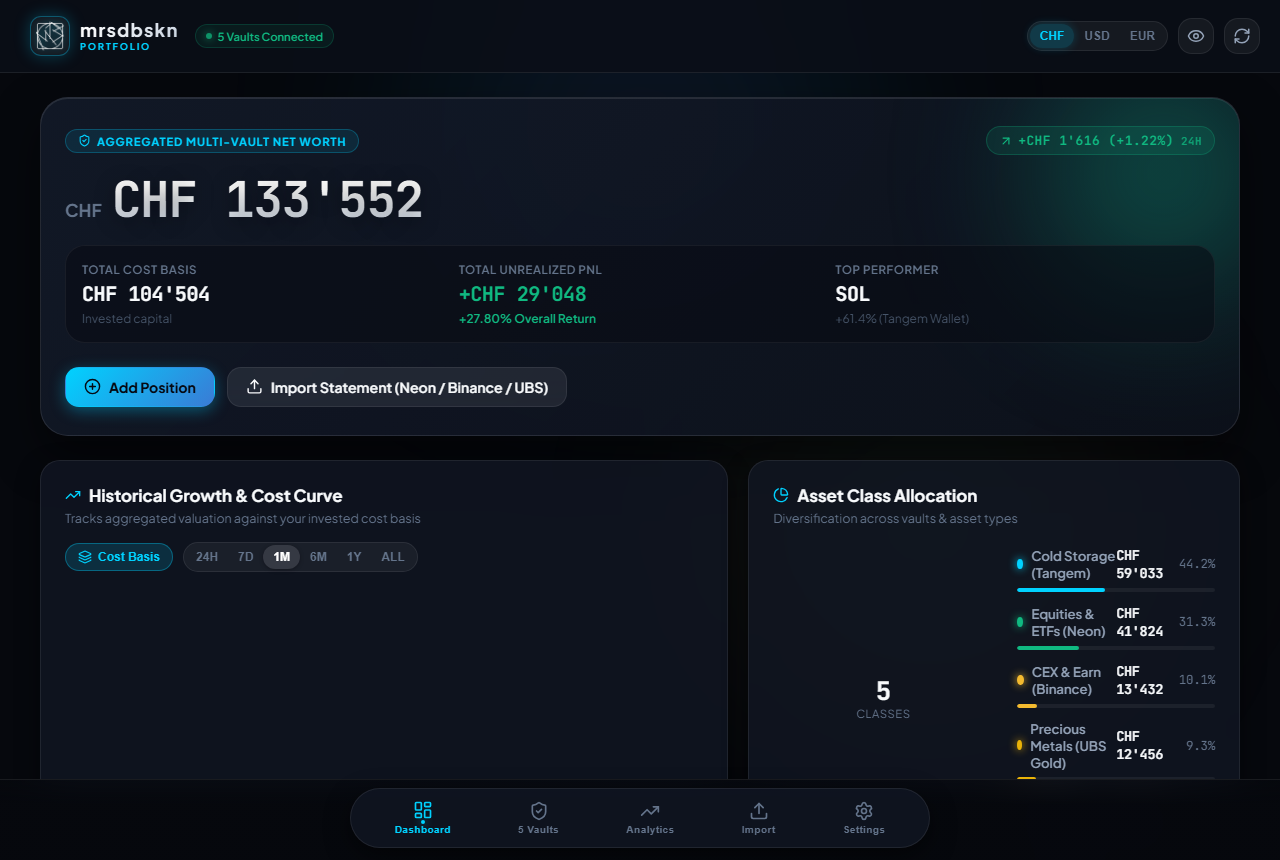
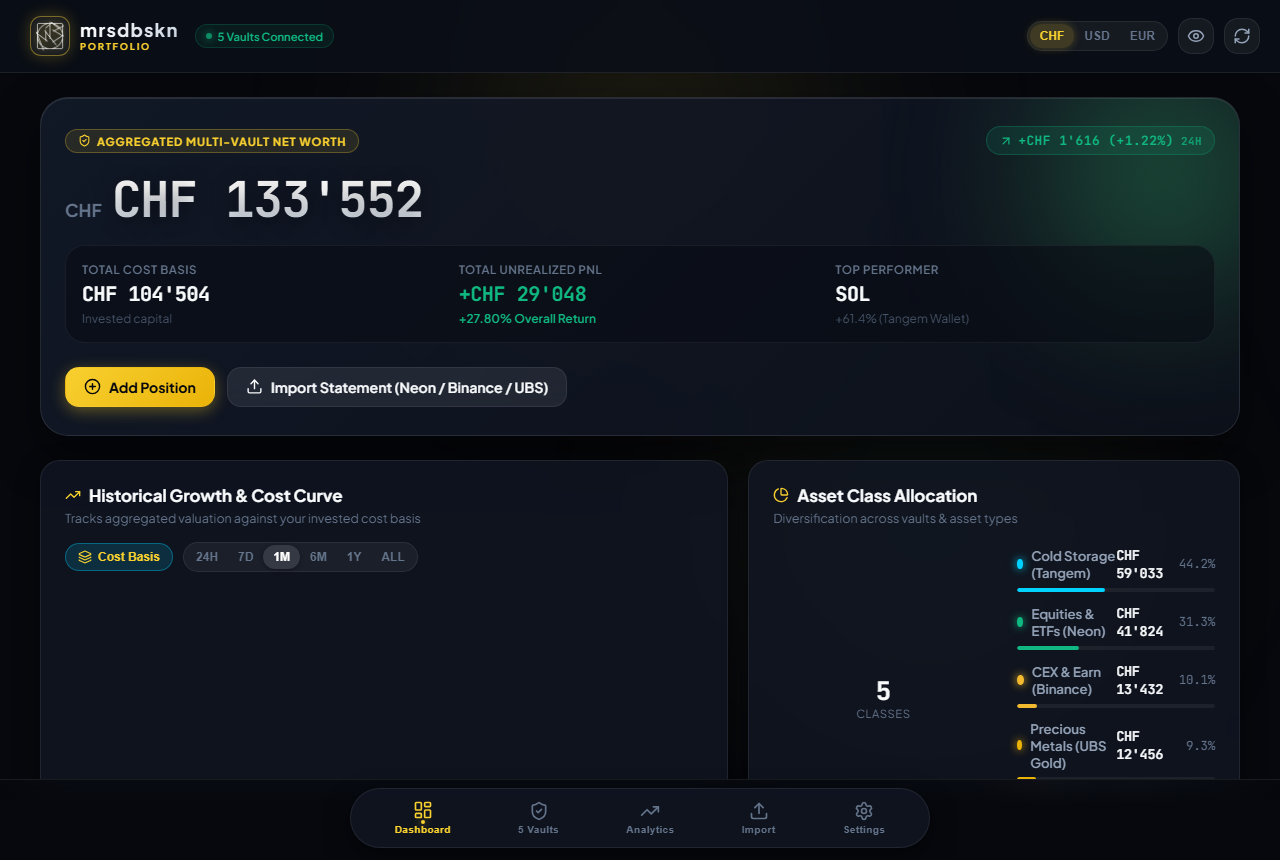
style: set primary theme accent color to vibrant gold #F8D030

diff --git a/src/style.css b/src/style.css
@@ -12,7 +12,7 @@
 
   --border-subtle: rgba(255, 255, 255, 0.08);
   --border-strong: rgba(255, 255, 255, 0.16);
-  --border-glow: rgba(0, 210, 255, 0.3);
+  --border-glow: rgba(248, 208, 48, 0.35);
 
   --text-primary: #f8fafc;
   --text-secondary: #94a3b8;
@@ -20,12 +20,12 @@
   --text-dim: #475569;
 
   /* Accents */
-  --accent-cyan: #00d2ff;
+  --accent-cyan: #F8D030;
+  --accent-gold: #F8D030;
   --accent-blue: #3b82f6;
   --accent-indigo: #6366f1;
   --accent-purple: #a855f7;
-  --accent-gold: #f59e0b;
-  --accent-yellow: #facc15;
+  --accent-yellow: #F8D030;
   --accent-emerald: #10b981;
   --accent-rose: #f43f5e;
 
@@ -41,8 +41,8 @@
   --shadow-sm: 0 2px 8px rgba(0, 0, 0, 0.3);
   --shadow-md: 0 8px 24px rgba(0, 0, 0, 0.45);
   --shadow-lg: 0 16px 40px rgba(0, 0, 0, 0.6);
-  --shadow-glow-cyan: 0 0 30px rgba(0, 210, 255, 0.15);
-  --shadow-glow-gold: 0 0 30px rgba(245, 158, 11, 0.15);
+  --shadow-glow-cyan: 0 0 30px rgba(248, 208, 48, 0.2);
+  --shadow-glow-gold: 0 0 30px rgba(248, 208, 48, 0.2);
   --shadow-glow-profit: 0 0 25px rgba(16, 185, 129, 0.2);
 
   /* Sizing & Transitions */
@@ -83,7 +83,7 @@ body::before {
   left: 20%;
   width: 60vw;
   height: 40vw;
-  background: radial-gradient(circle, rgba(99, 102, 241, 0.12) 0%, rgba(0, 210, 255, 0.06) 40%, transparent 70%);
+  background: radial-gradient(circle, rgba(248, 208, 48, 0.12) 0%, rgba(248, 208, 48, 0.04) 40%, transparent 70%);
   filter: blur(80px);
   pointer-events: none;
   z-index: 0;
@@ -199,14 +199,14 @@ body::after {
 }
 
 .btn-primary {
-  background: linear-gradient(135deg, #00d2ff 0%, #3a7bd5 100%);
-  color: #060912;
-  box-shadow: 0 4px 15px rgba(0, 210, 255, 0.35);
+  background: linear-gradient(135deg, #F8D030 0%, #eab308 100%);
+  color: #06080d;
+  box-shadow: 0 4px 15px rgba(248, 208, 48, 0.35);
   font-weight: 700;
 }
 .btn-primary:hover {
   transform: translateY(-1px);
-  box-shadow: 0 6px 20px rgba(0, 210, 255, 0.5);
+  box-shadow: 0 6px 20px rgba(248, 208, 48, 0.55);
 }
 .btn-primary:active {
   transform: scale(0.98);

diff --git a/src/components/HeaderBar.vue b/src/components/HeaderBar.vue
@@ -109,12 +109,12 @@ const currencies: Currency[] = ['CHF', 'USD', 'EUR'];
   height: 40px;
   border-radius: 11px;
   background: rgba(255, 255, 255, 0.05);
-  border: 1px solid rgba(0, 210, 255, 0.35);
+  border: 1px solid rgba(248, 208, 48, 0.45);
   display: flex;
   align-items: center;
   justify-content: center;
   padding: 4px;
-  box-shadow: 0 0 16px rgba(0, 210, 255, 0.25);
+  box-shadow: 0 0 16px rgba(248, 208, 48, 0.25);
   overflow: hidden;
 }
 
@@ -122,7 +122,7 @@ const currencies: Currency[] = ['CHF', 'USD', 'EUR'];
   width: 100%;
   height: 100%;
   object-fit: contain;
-  filter: drop-shadow(0 0 4px rgba(0, 210, 255, 0.6));
+  filter: drop-shadow(0 0 5px rgba(248, 208, 48, 0.7));
 }
 
 .logo-text {
@@ -144,7 +144,7 @@ const currencies: Currency[] = ['CHF', 'USD', 'EUR'];
   font-size: 0.58rem;
   font-weight: 700;
   letter-spacing: 0.2em;
-  color: var(--accent-cyan);
+  color: #F8D030;
 }
 
 .status-indicator {
@@ -199,9 +199,9 @@ const currencies: Currency[] = ['CHF', 'USD', 'EUR'];
 }
 
 .currency-btn.active {
-  background: rgba(0, 210, 255, 0.18);
-  color: var(--accent-cyan);
-  box-shadow: 0 0 10px rgba(0, 210, 255, 0.2);
+  background: rgba(248, 208, 48, 0.18);
+  color: #F8D030;
+  box-shadow: 0 0 10px rgba(248, 208, 48, 0.25);
 }
 
 .action-btn {

diff --git a/src/components/PerformanceChart.vue b/src/components/PerformanceChart.vue
@@ -33,22 +33,22 @@ function initChart() {
 
   // Create gradient
   const gradient = ctx.createLinearGradient(0, 0, 0, 260);
-  gradient.addColorStop(0, 'rgba(0, 210, 255, 0.35)');
-  gradient.addColorStop(0.5, 'rgba(16, 185, 129, 0.15)');
+  gradient.addColorStop(0, 'rgba(248, 208, 48, 0.38)');
+  gradient.addColorStop(0.5, 'rgba(248, 208, 48, 0.10)');
   gradient.addColorStop(1, 'rgba(10, 14, 23, 0.0)');
 
   const datasets: any[] = [
     {
       label: 'Net Worth',
       data: values,
-      borderColor: '#00d2ff',
+      borderColor: '#F8D030',
       borderWidth: 2.5,
       backgroundColor: gradient,
       fill: true,
       tension: 0.35,
       pointRadius: values.length > 10 ? 0 : 3.5,
       pointHoverRadius: 6,
-      pointBackgroundColor: '#00d2ff',
+      pointBackgroundColor: '#F8D030',
       pointBorderColor: '#ffffff',
       pointBorderWidth: 2,
     },

diff --git a/src/components/NetWorthCard.vue b/src/components/NetWorthCard.vue
@@ -137,7 +137,7 @@ const topPerformer = computed(() => topGainers.value[0]);
 }
 
 .glow-profit {
-  background: radial-gradient(circle, #10b981 0%, rgba(0, 210, 255, 0.3) 100%);
+  background: radial-gradient(circle, #10b981 0%, rgba(248, 208, 48, 0.3) 100%);
 }
 
 .glow-loss {
@@ -166,9 +166,9 @@ const topPerformer = computed(() => topGainers.value[0]);
   gap: 6px;
   font-size: 0.7rem;
   font-weight: 700;
-  color: var(--accent-cyan);
-  background: rgba(0, 210, 255, 0.1);
-  border: 1px solid rgba(0, 210, 255, 0.25);
+  color: #F8D030;
+  background: rgba(248, 208, 48, 0.1);
+  border: 1px solid rgba(248, 208, 48, 0.28);
   padding: 4px 12px;
   border-radius: var(--radius-full);
   letter-spacing: 0.08em;

diff --git a/src/components/CostVsValueChart.vue b/src/components/CostVsValueChart.vue
@@ -48,8 +48,8 @@ function initChart() {
         {
           label: 'Current Market Value',
           data: valueData,
-          backgroundColor: '#00d2ff',
-          hoverBackgroundColor: '#38bdf8',
+          backgroundColor: '#F8D030',
+          hoverBackgroundColor: '#fde047',
           borderRadius: 6,
           barPercentage: 0.7,
           categoryPercentage: 0.75,
